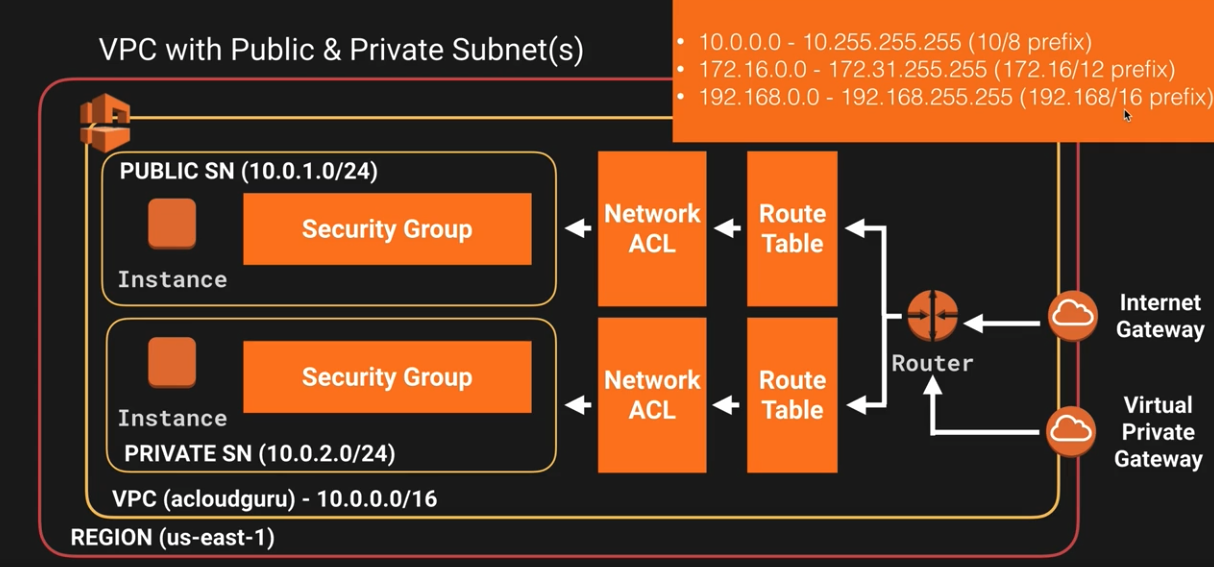
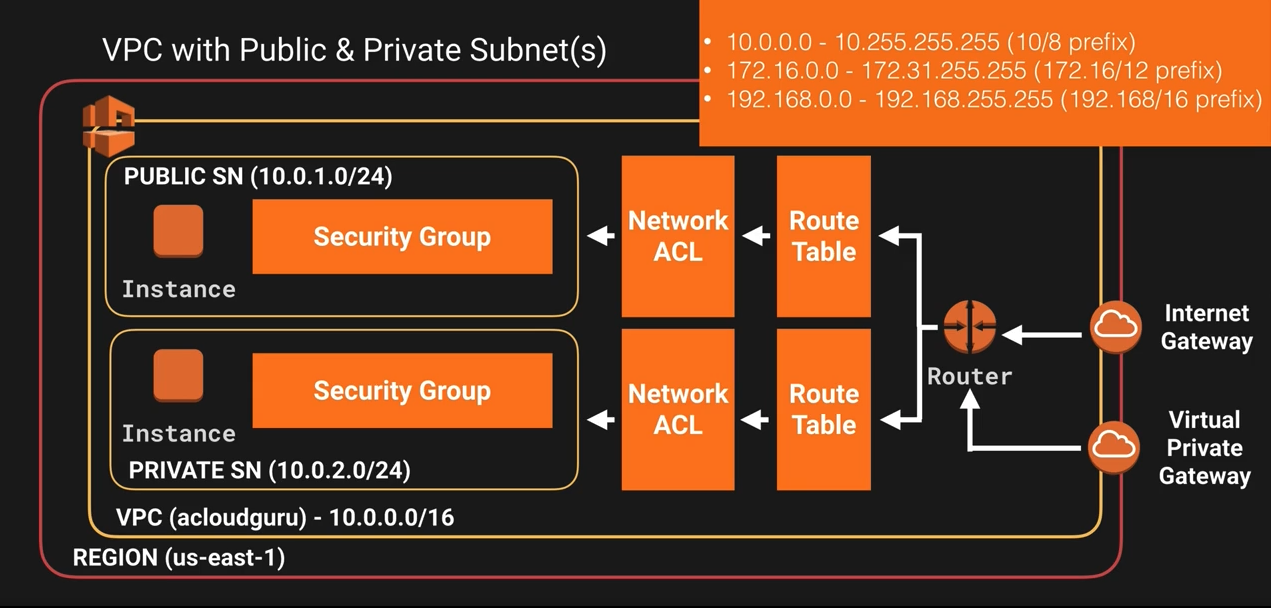
add

Changed region(s): [[0.0305, 0.0, 1.0, 0.9894]]

diff --git a/src/app/starter/starter-content/starter-content.component.html b/src/app/starter/starter-content/starter-content.component.html
@@ -30,94 +30,32 @@
             storage, content delivery and other functionality to help businesses scale and grow. Explore how
             millions of customers are currently leveraging AWS cloud products and solutions to build sophisticated
             applications with increased flexibility, scalability and reliability.
-
           </p>
           <hr class="my-1">
           <p>
-
             Click and navigate for more detals.
           </p>
           <p class="lead">
-            <a class="btn btn-primary btn-lg" [routerLink]="['/starter/index2']" role="button">Learn more</a>
+         
+            <a class="btn btn-primary btn-sm" [routerLink]="['/starter/index2']" role="button">Learn more</a>
           </p>
         </div>
         <div>
-            <p>
-                <img src="assets/img/aws/achitect_pro/2019_00003_AWS_pro_VPC_diagram.png" class="img-fluid" alt="Responsive image">
-            </p>
+          <p>
+            <img src="assets/img/aws/achitect_pro/2019_00003_AWS_pro_VPC_diagram.png" 
+            class="mx-auto rounded img-fluid" alt="Responsive image">
+          </p>
         </div>
-
       </div>
       <!-- end -->
-      <div class="row">
-        <div class="col-lg-6">
-          <div class="card card-primary card-outline">
-            <div class="card-body">
-              <h5 class="card-title">DevOps</h5>
-
-              <p class="card-text">
-                DevOps is the combination of cultural philosophies, practices, and tools that increases an
-                organization’s ability to deliver applications and services at high velocity: evolving and improving
-                products at a faster pace than organizations using traditional software development and infrastructure
-                management processes. This speed enables organizations to better serve their customers and compete more
-                effectively in the market.
-              </p>
-              <a [routerLink]="['/starter/index']" class="btn btn-primary">Upcoming.....</a>
-            </div>
-          </div><!-- /.card -->
-        </div>
-        <!-- /.col-md-6 -->
-        <div class="col-lg-6">
-          <div class="card">
-            <div class="card-header">
-              <h5 class="m-0">Programming Language</h5>
-            </div>
-            <div class="card-body">
-              <h6 class="card-title">Java/J2EE</h6>
-
-              <p class="card-text">
-                The Java Platform, Enterprise Edition (Java EE) is a collection of Java APIs owned by Oracle that
-                software developers can use to write server-side applications. It was formerly known as Java 2
-                Platform, Enterprise Edition, or J2EE.
-
-              </p>
-              <a [routerLink]="['/starter/index']" class="btn btn-primary">Upcoming.....</a>
-            </div>
-          </div>
-
-          <div class="card card-primary card-outline">
-            <div class="card-header">
-              <h5 class="m-0">CI/CD</h5>
-            </div>
-            <div class="card-body">
-              <h6 class="card-title">CI/CD</h6>
-
-              <p class="card-text">
-                The technical goal of CI is to establish a consistent and automated way to build, package, and test
-                applications. With consistency in the integration process in place, teams are more likely to commit
-                code changes more frequently, which leads to better collaboration and software quality.
-
-                A mature CI/CD practice has the option of implementing continuous deployment where application changes
-                run through the CI/CD pipeline and passing builds are deployed directly to production environments.
-                Teams practicing continuous delivery elect to deploy to production on daily or even hourly schedule,
-                though continuous delivery isn’t always the optimal for every business application.
-
-              </p>
-              <a [routerLink]="['/starter/index']" class="btn btn-primary">Go somewhere</a>
-            </div>
-          </div>
-        </div>
-        <!-- /.col-md-6 -->
-      </div>
-      <!-- /.row -->
     </div><!-- /.container-fluid -->
   </div>
   <!-- /.content -->
 
   <div class="card container">
-    <div class="card-header">
-      Web identity federation
-    </div>
+    <h3>Web identity federation</h3>
+
+
     <div class="card-body">
       <h5 class="card-title">Web identity federation</h5>
 
@@ -1288,7 +1226,6 @@ Global secondary index: </code>
           <li>Multi-Threaded</li>
           <li>NO Multi AZ capabilities.</li>
         </ol>
-
       </li>
       <li>
         Redis:
@@ -1297,12 +1234,7 @@ Global secondary index: </code>
           <li>Supports more complex data structure: sorted sets and lists.</li>
           <li>Support Master Slave replication and Multi-AZ for cross AZ redundancy.</li>
         </ol>
-
-
       </li>
-
-
-
     </ul>
   </div>
   <div class="card-body card-header">
